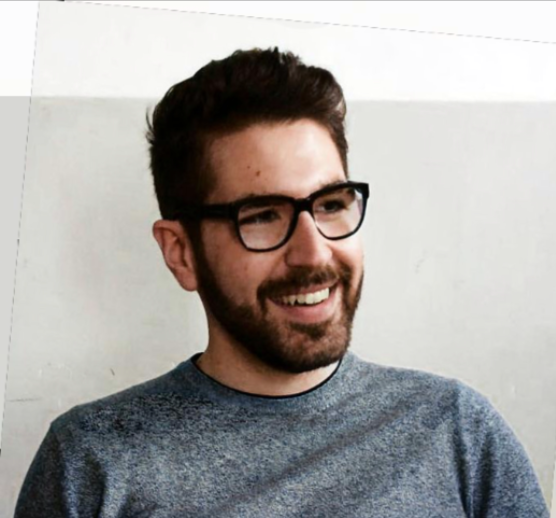
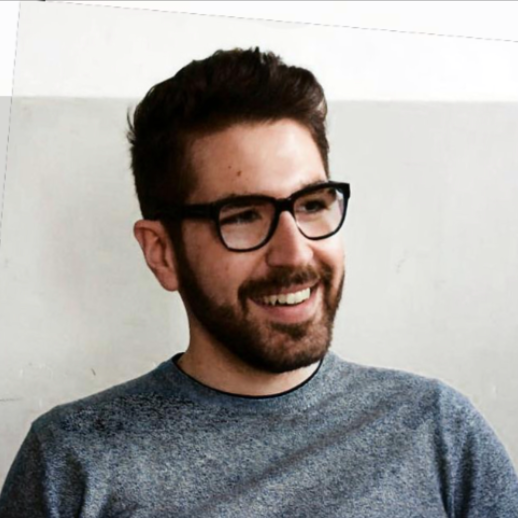
REFACT + bordo immagine

diff --git a/index.html b/index.html
@@ -11,33 +11,39 @@
         <div class="container">
             <div class="row">
                 <div class="col hero">
-                    <figure class="hero__wrapper"> 
+                    <div class="row">
                         
-                        <img  src="./img/colorpic.png" alt="">
- 
-                    </figure>
-                    <article class="hero__descrizione">
-
-                        <h3>Ciao, il mio nome è</h3>
-                        <h1>Corrado de Pinto</h1>
-                        <h3>e sono</h3>
-                        <h2>ruolo</h2>
-                        <p>Lorem ipsum, dolor sit amet consectetur adipisicing.
-                        Esse debitis, culpa tempora nisi ut ea.
-                        Facere hic, quo ullam architecto natus adipisci.
-                        Aspernatur soluta hic et culpa ipsam quia!</p>
-                    </article>
-
-                    <nav>
-            
-                        <ul class="row column head">
-                            <li class="col col-auto"><a class="head__item" href="#">home</a></li>
-                            <li class="col col-auto"><a class="head__item" href="portfolio.html">portfolio</a></li>
-                            <li class="col col-auto"><a class="head__item" href="esperienze.html">esperienze</a></li>
-                            <li class="col col-auto"><a class="head__item" href="contattami.html">contattami</a></li>
-                        </ul>
+                        <figure class="hero__wrapper"> 
                         
-                    </nav>
+                            <div class="border"></div>
+    
+                            <img class="main-element" src="./img/colorpic.png" alt="">
+     
+                        </figure>
+                        <article class="hero__descrizione">
+    
+                            <h3>Ciao, il mio nome è</h3>
+                            <h1>Corrado de Pinto</h1>
+                            <h3>e sono</h3>
+                            <h2>ruolo</h2>
+                            <p>Lorem ipsum, dolor sit amet consectetur adipisicing.
+                            Esse debitis, culpa tempora nisi ut ea.
+                            Facere hic, quo ullam architecto natus adipisci.
+                            Aspernatur soluta hic et culpa ipsam quia!</p>
+                        </article>
+    
+                        <nav>
+                
+                            <ul class="row column head">
+                                <li class="col col-auto"><a class="head__item" href="#">home</a></li>
+                                <li class="col col-auto"><a class="head__item" href="portfolio.html">portfolio</a></li>
+                                <li class="col col-auto"><a class="head__item" href="esperienze.html">esperienze</a></li>
+                                <li class="col col-auto"><a class="head__item" href="contattami.html">contattami</a></li>
+                            </ul>
+                            
+                        </nav>
+                    </div>
+
                 </div>
 
                 <aside>

diff --git a/style.css b/style.css
@@ -58,6 +58,7 @@ _________________________________ */
 .row{
     display: flex;
     flex-wrap: wrap;
+    text-align: left;
 }
 
 .column{
@@ -90,11 +91,56 @@ _________________________________ */
     padding: 8px 12px;
 }
 
-.hero__wrapper img{
-    max-width: 360px;
+.hero__wrapper {
+
+    /* MAIN DIMENSIONE */
+    width: 33%;
+
+    padding-top: 100px;
     border-radius: 50%;
     aspect-ratio: 1;
+    margin: 0 auto;
+    position: relative;
+    overflow: hidden;
 }
+
+
+.main-element {
+    position: absolute;
+    border-radius: 50%;
+    top: 4%;
+    left: 4%;
+    display: block;
+    height: 92%;
+    width: 92%;
+    margin: auto;
+    z-index: 1;
+}
+
+.border {
+    position: absolute;
+    display: block;
+    top: -50%;
+    left: -50%;
+    z-index: -9;
+    display: block;
+    height: 200%;
+    width: 200%;
+    transform: rotate(225deg);
+    overflow: hidden;
+    background: linear-gradient(to right, #fff 20%, #fff 40%, #ECD08C 50%, #ECD08C 55%, #fff 70%, #fff 100%);
+    background-size: 200% auto;
+    
+    animation: shine 5s  infinite;
+  }
+
+  /*bordo animato immagine nell'hero*/
+
+@keyframes shine {
+    to {
+      background-position: 200% center;
+    }
+  }
 
 
 /* __________________________________
